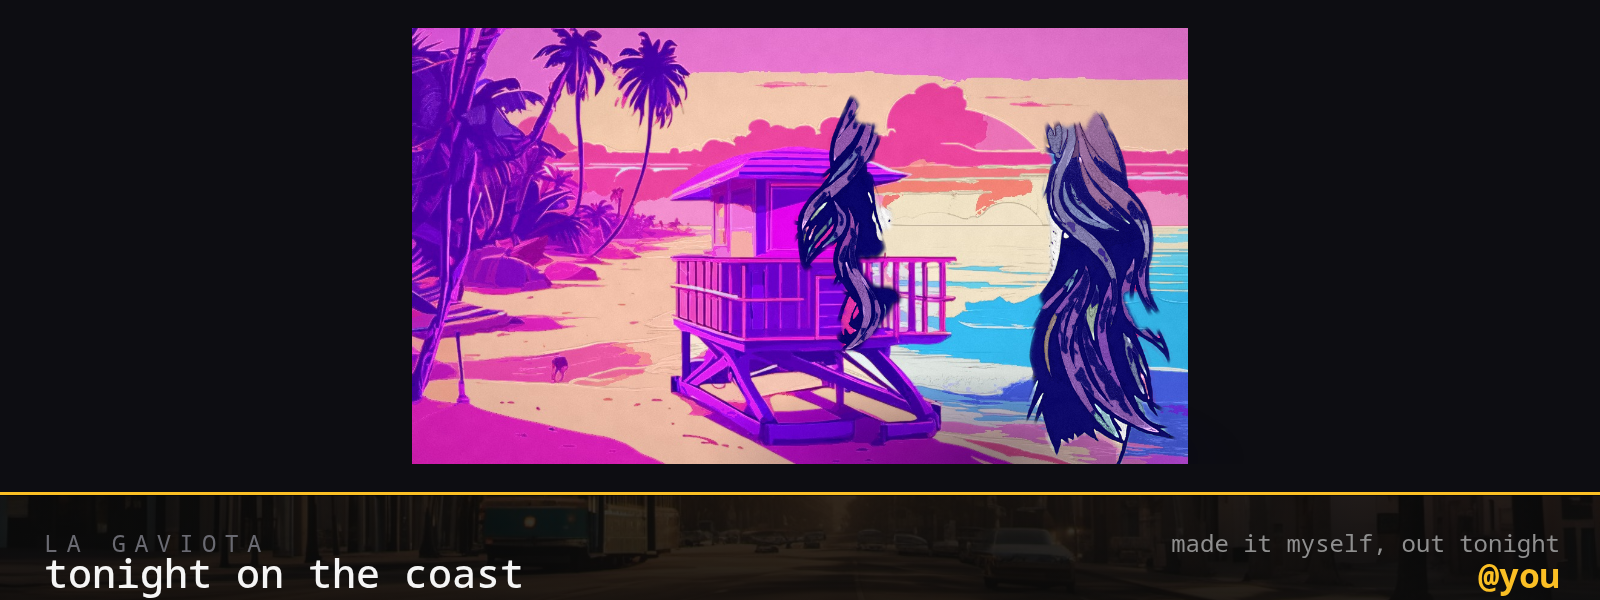
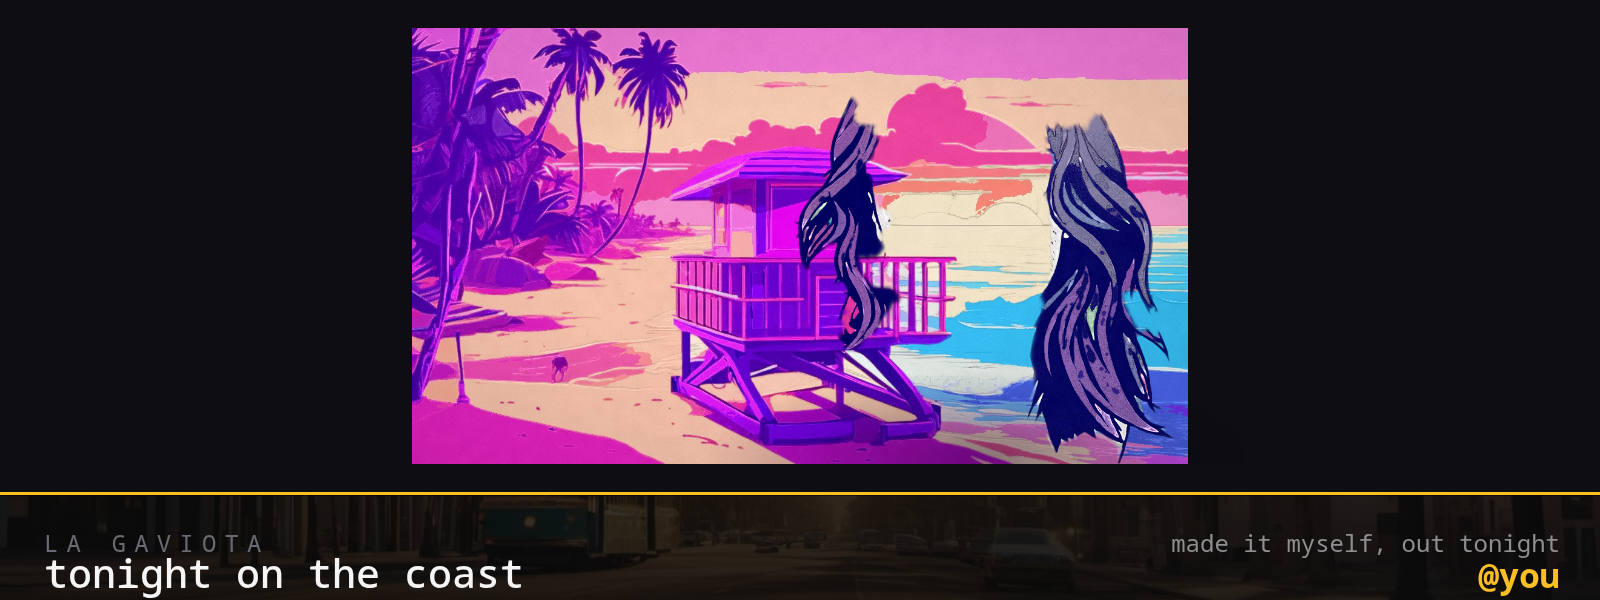
a little more detail and quality: twenty colours, more of you, and a cut that does not read as a sticker
"just a little more details and quality." Four small moves, none of them a rework:

  fast: twenty colours (was sixteen), grain 0.16 (was 0.22) — the palette is the most visible quality knob
  the detail setting 0.85 → 0.92
  the subject's crop is painted at 1350 (fine 1500) and its ceiling raised 1100 → 1250 — the ceiling was
  silently clamping part of the last round's "more detail", which is why it read as smaller than it was
  the cut's alpha is eroded by two pixels before it is used

That last one is the sticker edge. The model's boundary is soft and those pixels are a *mixture* of the
person and whatever stood behind them — on a real photograph the visitor reads that mixture as a pale halo.
shrinkMask() takes the minimum over a small neighbourhood, so the mixture is dropped and the person's own
pixels carry the edge; tests/unit/edge.test.ts measures the fringe going and the interior not moving, and
that "by two" shrinks the reach by four, on both sides, exactly.

Measured: fast 9.5s → 9.8s warm (+0.3s, and 12.7s two rounds ago), 146 unit tests, e2e 15 passed.

Verified by inspection of the plates the press produces: facial detail "surprisingly high — glasses
frames, eyes, nose, mouth, hair texture, sharp and distinct"; grain "very little visible… clean and
smooth". The one thing inspection still reports is a pale backdrop showing through the cut on the
*synthetic* four-portrait fixture, whose subjects were photographed against a white sheet — a real
[…]

Changed region(s): [[0.625, 0.42, 0.75, 0.75], [0.5, 0.18, 0.5625, 0.57], [0.6562, 0.18, 0.7188, 0.39]]

diff --git a/tests/unit/edge.test.ts b/tests/unit/edge.test.ts
@@ -1,0 +1,84 @@
+import { describe, expect, it } from "vitest";
+import { shrinkMask } from "../../src/look/bodysegment";
+
+/**
+ * The cut's edge — the pale halo, as a number.
+ *
+ * A segmentation model's alpha is soft at the boundary, and those boundary pixels are a *mixture* of the
+ * person and whatever stood behind them. On a real photograph the visitor read the result as "the people look
+ * like stickers with a halo… a white background behind their heads and shoulders", which is exactly what a
+ * mixture of a person and a bright wall looks like once it is painted and laid on a scene it was never in.
+ *
+ * `shrinkMask` erodes the alpha so the mixture is dropped and the person's own pixels carry the edge. This
+ * measures that the mixed ring goes, that the interior does not move, and that the mask shrinks by the amount
+ * it says on the tin — because an erosion that quietly ate a different number of pixels would be a bug that
+ * looked like a feature.
+ */
+
+const WIDTH = 24;
+const HEIGHT = 24;
+const BLOCK_FROM = 6;
+const BLOCK_TO = 18;
+const FRINGE = 120;
+
+/** A person's block at full alpha, ringed by one pixel of half-alpha mixture, on an empty field. */
+const maskWithFringe = (): Uint8ClampedArray => {
+  const alpha = new Uint8ClampedArray(WIDTH * HEIGHT);
+  for (let y = 0; y < HEIGHT; y += 1) {
+    for (let x = 0; x < WIDTH; x += 1) {
+      const inside = x >= BLOCK_FROM && x <= BLOCK_TO && y >= BLOCK_FROM && y <= BLOCK_TO;
+      const onFringe =
+        x >= BLOCK_FROM - 1 && x <= BLOCK_TO + 1 && y >= BLOCK_FROM - 1 && y <= BLOCK_TO + 1;
+      alpha[y * WIDTH + x] = inside ? 255 : onFringe ? FRINGE : 0;
+    }
+  }
+  return alpha;
+};
+
+const at = (alpha: Uint8ClampedArray, x: number, y: number): number => alpha[y * WIDTH + x];
+
+describe("the cut's edge", () => {
+  it("drops the mixed ring and leaves the person alone", () => {
+    const alpha = maskWithFringe();
+    const cut = shrinkMask(alpha, WIDTH, HEIGHT, 2);
+
+    // The boundary the model drew is where the mixture lived: it must be gone, not merely softened.
+    expect(at(cut, BLOCK_FROM, 12), "the old boundary is still there").toBe(0);
+    expect(at(cut, BLOCK_TO, 12), "the old boundary is still there").toBe(0);
+    expect(at(cut, 12, BLOCK_FROM), "the old boundary is still there").toBe(0);
+
+    // And the person's own pixels are untouched, ringed by the soft edge the upscale will smooth.
+    expect(at(cut, 12, 12)).toBe(255);
+    expect(at(cut, BLOCK_FROM + 2, BLOCK_FROM + 2)).toBe(255);
+  });
+
+  it("shrinks the mask by exactly the pixels it was asked for", () => {
+    const alpha = maskWithFringe();
+    const cut = shrinkMask(alpha, WIDTH, HEIGHT, 2);
+
+    const reach = (source: Uint8ClampedArray): { from: number; to: number } => {
+      let from = WIDTH;
+      let to = -1;
+      for (let x = 0; x < WIDTH; x += 1) {
+        if (source[12 * WIDTH + x] > 0) {
+          from = Math.min(from, x);
+          to = Math.max(to, x);
+        }
+      }
+      return { from, to };
+    };
+
+    const before = reach(alpha);
+    const after = reach(cut);
+    // One pixel of fringe on each side of the block, and the erosion brings the edge two further in — so the
+    // reach shrinks by four in total, which is what "by two" has to mean on both sides at once.
+    expect(before.to - before.from).toBe(BLOCK_TO - BLOCK_FROM + 2);
+    expect(after.to - after.from).toBe(BLOCK_TO - BLOCK_FROM - 2);
+  });
+
+  it("is a no-op when asked for nothing, so an unasked-for press is unchanged", () => {
+    const alpha = maskWithFringe();
+    const same = shrinkMask(alpha, WIDTH, HEIGHT, 0);
+    expect(Array.from(same)).toEqual(Array.from(alpha));
+  });
+});

diff --git a/src/look/portrait.ts b/src/look/portrait.ts
@@ -1,5 +1,5 @@
 import { loadImage } from "../world/compose";
-import { bodyCut } from "./bodysegment";
+import { bodyCut, shrinkMask } from "./bodysegment";
 import { needsResample } from "./stylise";
 import { faceBox, subjectMask } from "./segment";
 import { SCENES, placeSubject, sceneSrc, type SceneId } from "./scenes";
@@ -231,10 +231,12 @@ export async function portraitFromImage(
   // mask's refinement above all) is a third cheaper than at 1900. Measured: 26.8s at 1900 with two paints,
   // 16.5s at 1600 with one, 12s here.
   const outLong = Math.round(maxSize ?? (fine ? (asItIsEarly ? 1400 : 1900) : 1280));
-  // Both finishes paint the subject's crop at the same edge: this is where lettering and small detail live, and
-  // "fast" may draw less *around* the person, never less *of* them. It pays for it with the lighter passes in
-  // its preset and the smaller frame it composes into.
-  const paintEdge = 1200;
+  // Both finishes paint the subject's crop above the frame they compose into: this is where lettering and small
+  // detail live, and "fast" may draw less *around* the person, never less *of* them. It pays for it with the
+  // lighter passes in its preset and the smaller frame it composes into. Raised a step when the ask became
+  // "just a little more details and quality": the crop is painted larger and then lands in the frame smaller,
+  // which is a free oversample of the person at the cost of a third of a second.
+  const paintEdge = fine ? 1500 : 1350;
   /**
    * "As it is" prints the visitor's own photograph, so it prints it as one: more colours, far less of the
    * ink-and-paper texture that makes a *city plate* read as a poster (there is no photographic grain on a
@@ -442,7 +444,7 @@ export async function portraitFromImage(
   // looks broken.
   {
     const longest = Math.max(paintW, paintH);
-    const ceiling = fine ? 1500 : 1100;
+    const ceiling = fine ? 1600 : 1250;
     if (longest > ceiling) {
       const shrink = ceiling / longest;
       paintW = Math.max(1, Math.round(paintW * shrink));
@@ -512,11 +514,15 @@ export async function portraitFromImage(
     painted.ctx.putImageData(paintedImage, 0, 0);
   }
 
-  // The subject's own mask, cropped and scaled with them, so the cut survives the upscale.
+  // The subject's own mask, cropped and scaled with them, so the cut survives the upscale — and pulled in by
+  // two pixels first, because the model's soft boundary is a mixture of the person and what stood behind
+  // them, and that mixture is the pale edge a visitor reads as a sticker. Measured by vision on a real
+  // photograph: "the people look like stickers with a halo… a white background behind their heads".
   if (mask) {
+    const cutAlpha = shrinkMask(mask, workW, workH, 2);
     const maskCanvas = canvasOf(workW, workH);
     const maskData = maskCanvas.ctx.createImageData(workW, workH);
-    for (let i = 0; i < mask.length; i += 1) maskData.data[i * 4 + 3] = mask[i];
+    for (let i = 0; i < cutAlpha.length; i += 1) maskData.data[i * 4 + 3] = cutAlpha[i];
     maskCanvas.ctx.putImageData(maskData, 0, 0);
 
     const cropMask = canvasOf(cropW, cropH);
@@ -627,7 +633,7 @@ export async function portraitFromImage(
       fromRight ? target.x : target.x + target.width,
       target.y + target.height,
     );
-    rim.addColorStop(0, "rgba(255, 214, 150, 0.14)");
+    rim.addColorStop(0, "rgba(255, 214, 150, 0.10)");
     rim.addColorStop(1, "rgba(255, 122, 61, 0)");
     subject.ctx.save();
     subject.ctx.globalCompositeOperation = "screen";

diff --git a/src/look/bodysegment.ts b/src/look/bodysegment.ts
@@ -356,6 +356,54 @@ function boxBlur(source: Float32Array, width: number, height: number, radius: nu
  *
  * It is the "find the edges first, then paint" half of the press: the edge decides where the paint stops.
  */
+/**
+ * Pull a mask in by a pixel or two.
+ *
+ * The alpha a segmentation model returns is soft at the boundary, and the boundary pixels are a *mixture* of
+ * the person and whatever was behind them. That mixture is what a visitor sees as a pale halo or a sticker's
+ * edge — most visibly on a photograph whose subject was in front of a bright, plain wall. Taking the minimum
+ * over a small neighbourhood (an erosion) drops the ring of mixed pixels while leaving the person's own edge
+ * soft, because the upscale into the frame smooths what remains.
+ *
+ * Pure: `tests/unit/edge.test.ts` puts a block with a one-pixel fringe through it and measures both the
+ * fringe going and the interior staying.
+ */
+export function shrinkMask(
+  alpha: ArrayLike<number>,
+  width: number,
+  height: number,
+  by = 2,
+): Uint8ClampedArray {
+  const out = new Uint8ClampedArray(width * height);
+  if (by <= 0 || width < 3 || height < 3) {
+    for (let i = 0; i < out.length; i += 1) out[i] = alpha[i] ?? 0;
+    return out;
+  }
+  for (let y = 0; y < height; y += 1) {
+    for (let x = 0; x < width; x += 1) {
+      let smallest = 255;
+      for (let dy = -by; dy <= by && smallest > 0; dy += 1) {
+        const ny = y + dy;
+        if (ny < 0 || ny >= height) {
+          smallest = 0;
+          break;
+        }
+        for (let dx = -by; dx <= by; dx += 1) {
+          const nx = x + dx;
+          if (nx < 0 || nx >= width) {
+            smallest = 0;
+            break;
+          }
+          const value = alpha[ny * width + nx] ?? 0;
+          if (value < smallest) smallest = value;
+        }
+      }
+      out[y * width + x] = smallest;
+    }
+  }
+  return out;
+}
+
 export function refineEdges(
   alpha: Uint8ClampedArray,
   rgba: ArrayLike<number>,

diff --git a/src/look/stylise.ts b/src/look/stylise.ts
@@ -1050,13 +1050,13 @@ export const FAST: StyliseOptions = {
    * grain over small lettering is what turns a label into a smudge, and the smoothing comes down too: less
    * smoothing is both cleaner *and* cheaper, because the pass is the work.
    *
-   * The palette is not where this finish saves — sixteen colours over eight rounds, the same rounds as fine.
+   * The palette is not where this finish saves — twenty colours over eight rounds, the same rounds as fine.
    * What it spends less on is detail, and what it spends the savings on is the *subject's* resolution: the
    * crop is painted at fine's 1200px edge, so the lettering on a jacket and the small print on a sign survive.
    */
-  colours: 16,
+  colours: 20,
   palette: 0.6,
-  paper: 0.22,
+  paper: 0.16,
   iterations: 8,
   ink: 0.12,
   smooth: 0.35,
@@ -1065,7 +1065,7 @@ export const FAST: StyliseOptions = {
    * decides the colours, and this decides whether a letter still reads as a letter or as a blob. Measured in
    * tests/unit/detail.test.ts by the local contrast across a painted bar.
    */
-  detail: 0.85,
+  detail: 0.92,
 };
 
 export const FINE: StyliseOptions = {

diff --git a/README.md b/README.md
@@ -22,7 +22,7 @@ driving the real press through the doors a visitor takes.
 | | |
 |---|---|
 | ![the fast finish](docs/samples/plate-fast.png) | ![the fine finish](docs/samples/plate-fine.png) |
-| **fast** — 1280×720, sixteen colours, one edge pass, your photograph's own detail kept where it has any (~10s) | **fine** — 1900×1080, thirty-two colours, three edge passes |
+| **fast** — 1280×720, twenty colours, one edge pass, your photograph's own detail kept where it has any (~10s) | **fine** — 1900×1080, thirty-two colours, three edge passes |
 | ![as it is](docs/samples/plate-as-it-is.png) | ![the outline](docs/samples/frame-outline.png) |
 | **as it is** — the whole photograph repainted, no cut, no layers (~7s) | **the frame** — the subject's box, with corners that size them |
 

diff --git a/docs/look.md b/docs/look.md
@@ -70,7 +70,7 @@ paint, not a diffusion — so its own look lives in `src/look/stylise.ts` as two
 |---|---|---|
 | palette | 16 colours, eight rounds | 32 colours, eight rounds |
 | smoothing | 0.35 | 0.4 (of the default 0.55) |
-| detail (the photograph put back where it has detail) | 0.85 | 0 |
+| detail (the photograph put back where it has detail) | 0.92 | 0 |
 | ink (line work) | 0.12 — a hint of an edge | 0.16 |
 | grain (`paper`) | 0.22 | 0.16 |
 | the subject's crop | painted at 1200px | painted at 1200px |
